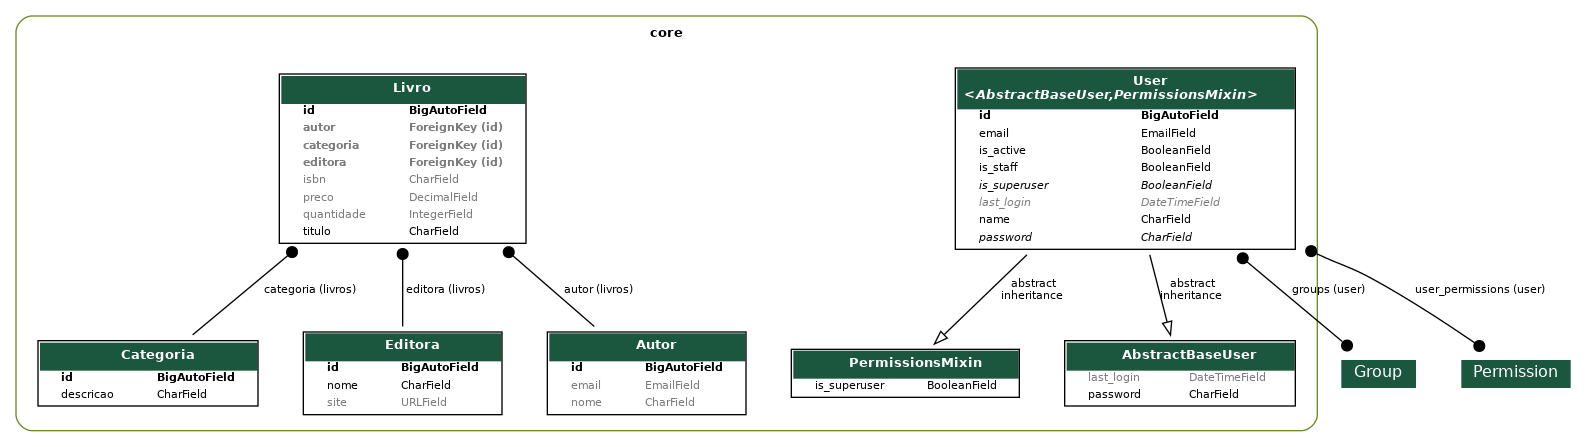
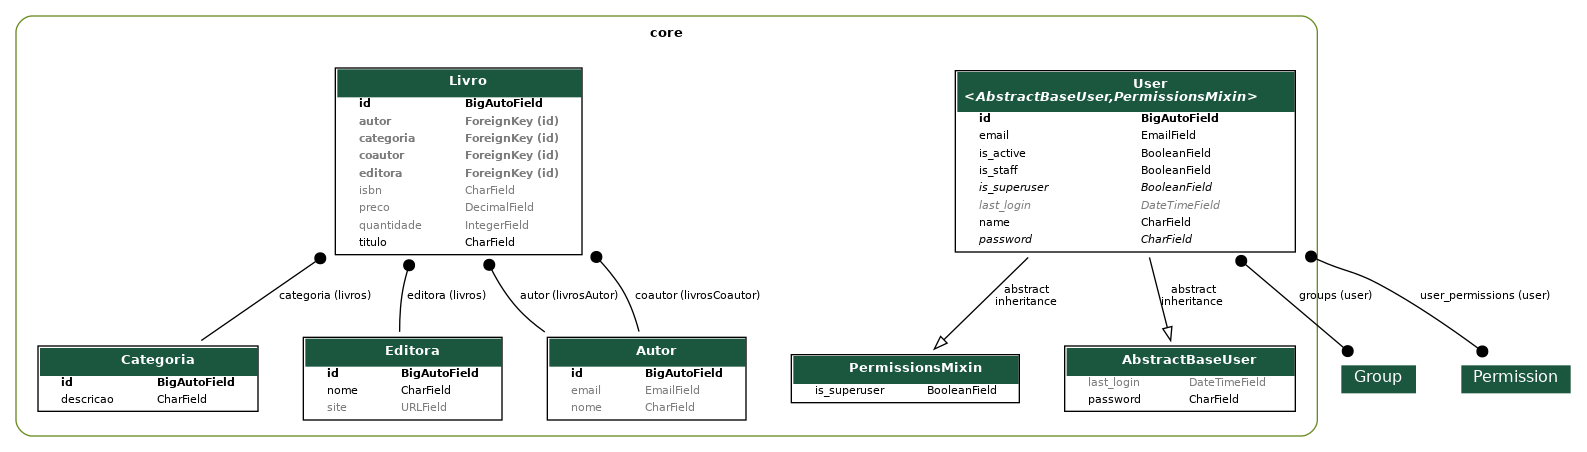
adiciona relacionamento de livro com autor e coautor

diff --git a/core/migrations/0011_livro_coautor_alter_livro_autor.py b/core/migrations/0011_livro_coautor_alter_livro_autor.py
@@ -1,0 +1,36 @@
+# Generated by Django 5.0.2 on 2024-08-02 11:43
+
+import django.db.models.deletion
+from django.db import migrations, models
+
+
+class Migration(migrations.Migration):
+
+    dependencies = [
+        ("core", "0010_alter_livro_autor"),
+    ]
+
+    operations = [
+        migrations.AddField(
+            model_name="livro",
+            name="coautor",
+            field=models.ForeignKey(
+                blank=True,
+                null=True,
+                on_delete=django.db.models.deletion.PROTECT,
+                related_name="livrosCoautor",
+                to="core.autor",
+            ),
+        ),
+        migrations.AlterField(
+            model_name="livro",
+            name="autor",
+            field=models.ForeignKey(
+                blank=True,
+                null=True,
+                on_delete=django.db.models.deletion.PROTECT,
+                related_name="livrosAutor",
+                to="core.autor",
+            ),
+        ),
+    ]

diff --git a/core/models/livro.py b/core/models/livro.py
@@ -12,7 +12,8 @@ class Livro(models.Model):
     preco = models.DecimalField(max_digits=7, decimal_places=2, default=0, blank=True, null=True)
     categoria = models.ForeignKey(Categoria, on_delete=models.PROTECT, related_name="livros", blank=True, null=True)
     editora = models.ForeignKey(Editora, on_delete=models.PROTECT, related_name="livros", blank=True, null=True)
-    autor = models.ForeignKey(Autor, on_delete=models.PROTECT, related_name="livros", blank=True, null=True)
+    autor = models.ForeignKey(Autor, on_delete=models.PROTECT, related_name="livrosAutor", blank=True, null=True) # livro 1:n autor
+    coautor = models.ForeignKey(Autor, on_delete=models.PROTECT, related_name="livrosCoautor", blank=True, null=True) # livro 1:n coautor
 
     def __str__(self):
         return f"({self.id}) {self.titulo} ({self.quantidade})"

diff --git a/core/migrations/0010_alter_livro_autor.py b/core/migrations/0010_alter_livro_autor.py
@@ -1,0 +1,25 @@
+# Generated by Django 5.0.2 on 2024-08-02 11:43
+
+import django.db.models.deletion
+from django.db import migrations, models
+
+
+class Migration(migrations.Migration):
+
+    dependencies = [
+        ("core", "0009_rename_eidtora_livro_editora_livro_autor"),
+    ]
+
+    operations = [
+        migrations.AlterField(
+            model_name="livro",
+            name="autor",
+            field=models.ForeignKey(
+                blank=True,
+                null=True,
+                on_delete=django.db.models.deletion.PROTECT,
+                related_name="livrosCoautor",
+                to="core.autor",
+            ),
+        ),
+    ]
